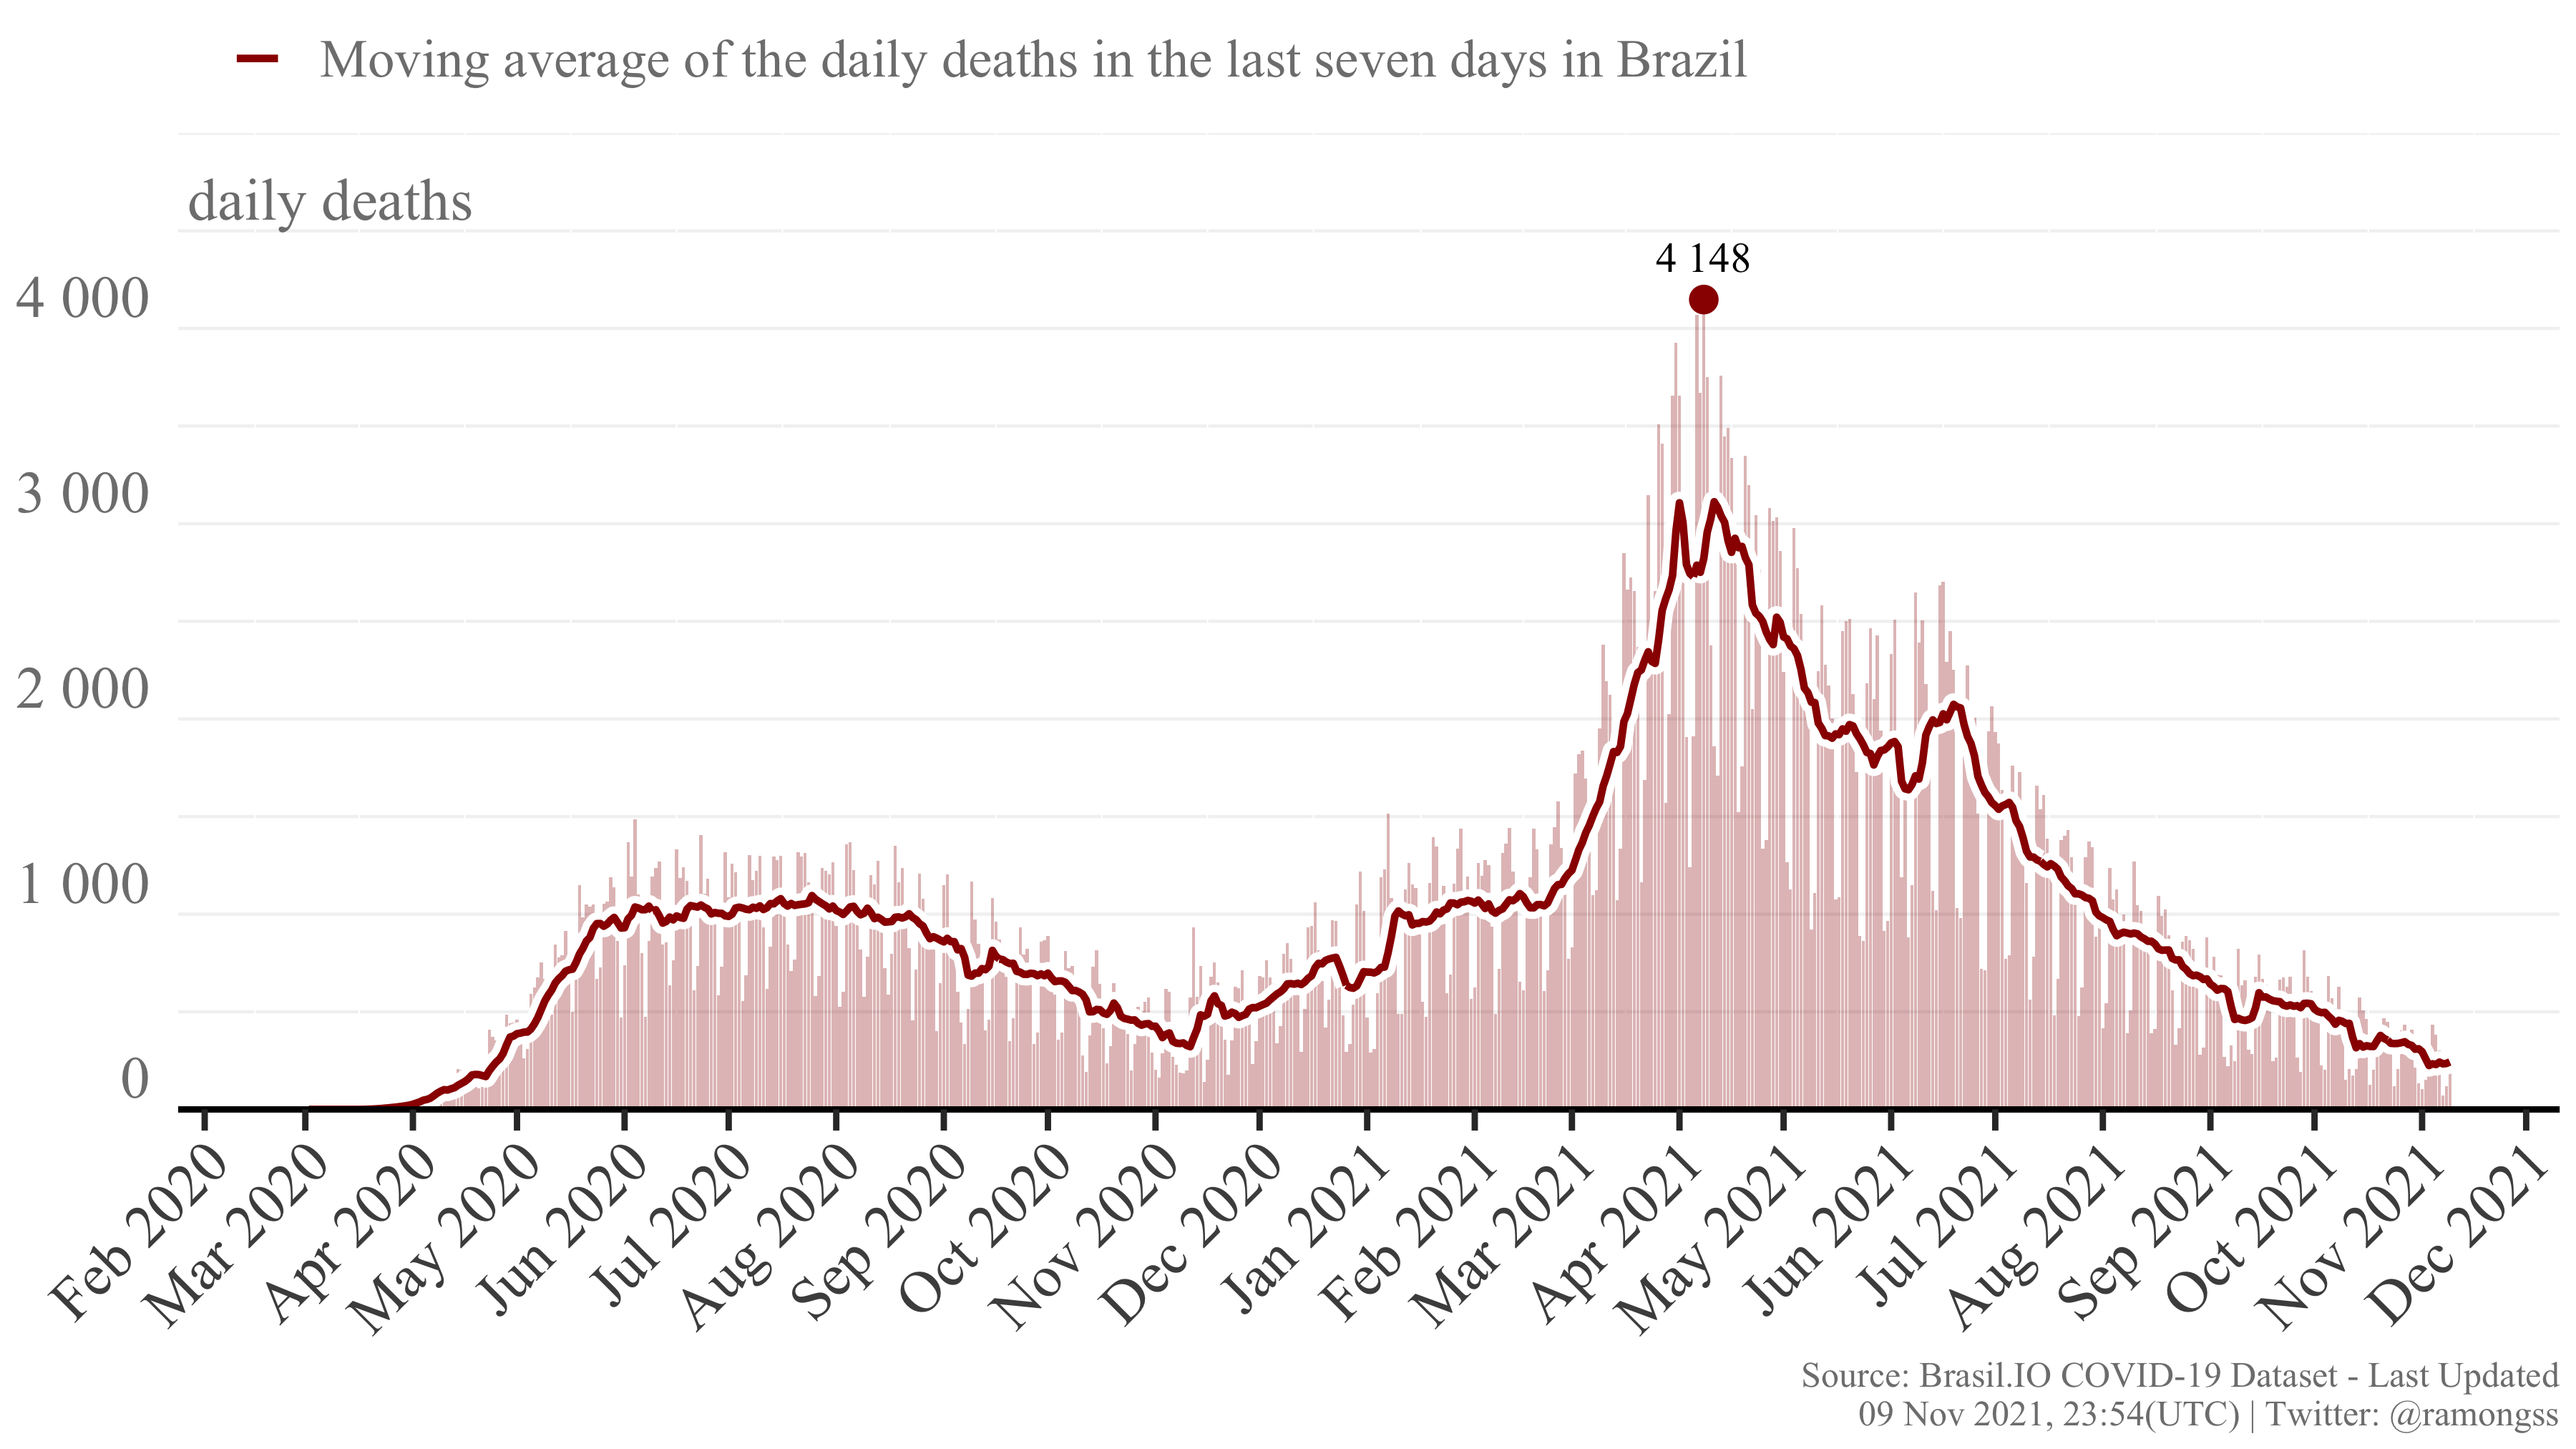
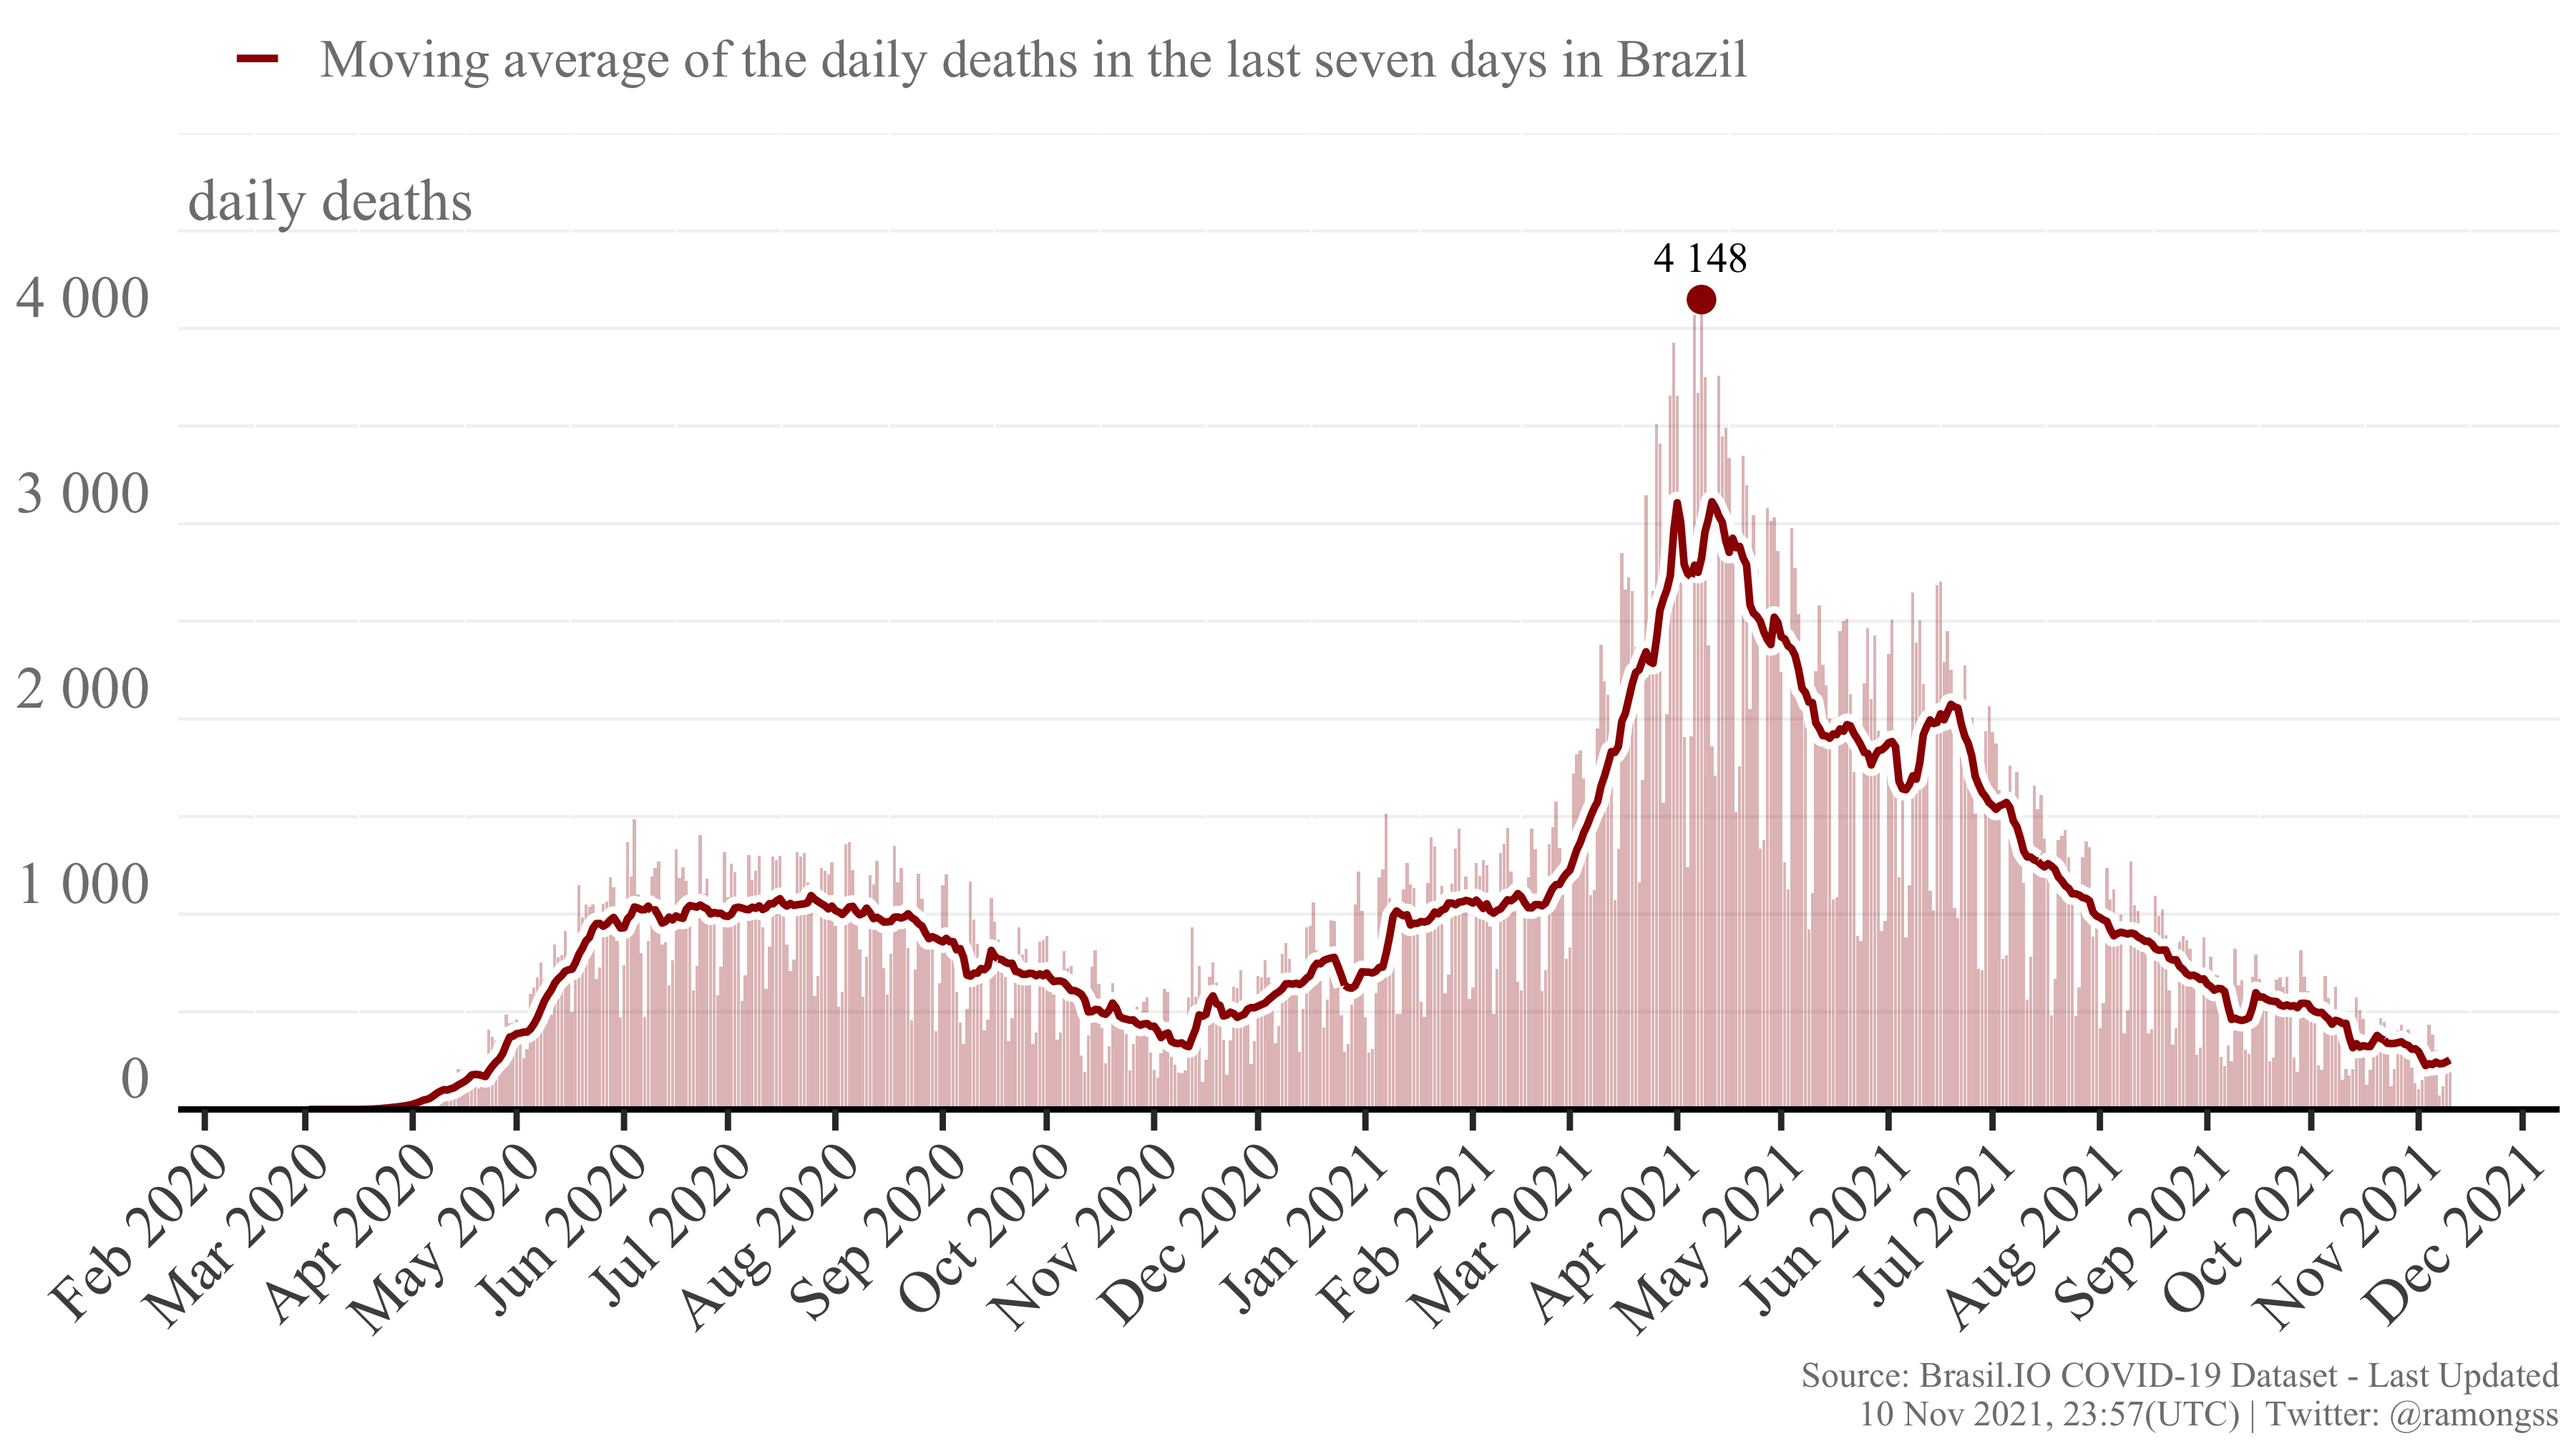
Re-build README.Rmd

diff --git a/README.md b/README.md
@@ -27,8 +27,8 @@ download_brasilio_table <- function(dataset = "covid19", table_name){
 
 ## COVID-19 Confirmed cases
 
-Currently, Brazil has a total of **21,902,459** confirmed cases at **09
-Nov, 2021**, with **11,020** new confirmed cases. The daily maximum
+Currently, Brazil has a total of **21,917,564** confirmed cases at **10
+Nov, 2021**, with **14,315** new confirmed cases. The daily maximum
 incidence was **124,878** confirmed cases at **18 Sep, 2021**. Here
 follows the Figure showing the confirmed case incidence as the bars, and
 the line as the moving average of the last 7 days.
@@ -37,8 +37,8 @@ the line as the moving average of the last 7 days.
 
 ## COVID-19 Deaths
 
-Currently, Brazil has a total of **610,039** deaths at **09 Nov, 2021**,
-with **206** new deaths. The daily maximum deaths incidence was
+Currently, Brazil has a total of **610,301** deaths at **10 Nov, 2021**,
+with **257** new deaths. The daily maximum deaths incidence was
 **4,148** deaths at **08 Apr, 2021**. Here follows the Figure showing
 the deaths incidence as the bars, and the line as the moving average of
 the last 7 days.
@@ -49,4 +49,4 @@ the last 7 days.
 
 This page is daily updated automatically using Github Actions.
 
-*Last update: 09 Nov 2021, 23:54 (UTC).*
+*Last update: 10 Nov 2021, 23:57 (UTC).*
